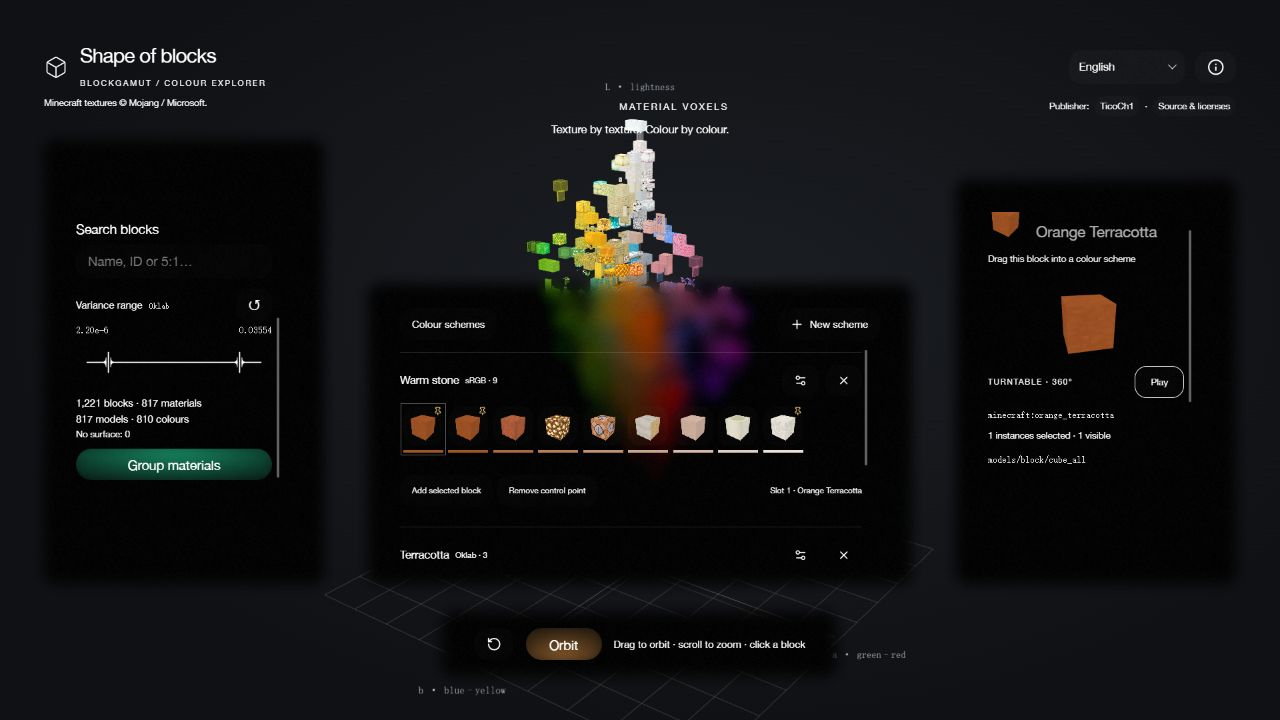
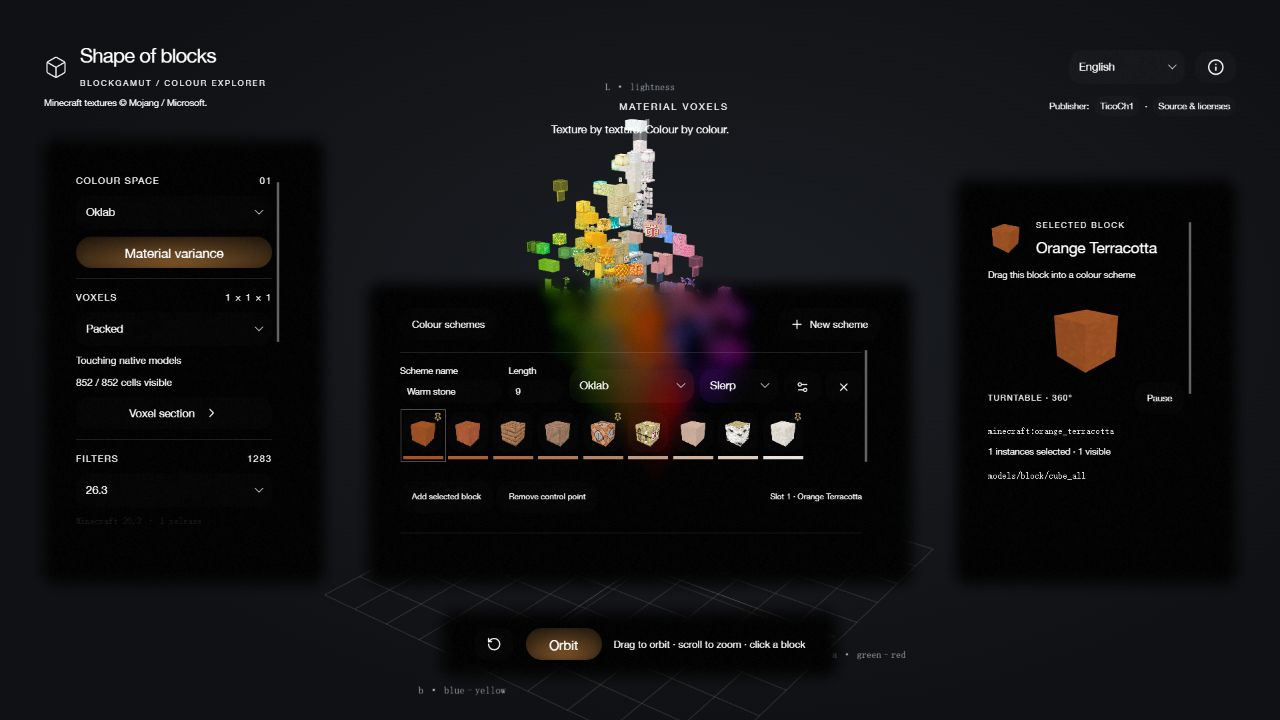
Add Slerp and inline colour scheme controls

diff --git a/src/ColourSchemes.tsx b/src/ColourSchemes.tsx
@@ -12,7 +12,7 @@ import type {Block,Space} from './types';
 import type {ModelResources} from './useModels';
 
 interface SchemeFilters {categories:string[];query:string;opaque:boolean;tinted:boolean;list:string;varianceMin:number;varianceMax:number}
-interface Scheme {id:string;name:string;length:number;anchors:Record<number,string>;space:Space;filters:SchemeFilters;ranges:Partial<Record<Space,[number,number]>>}
+interface Scheme {id:string;name:string;length:number;anchors:Record<number,string>;space:Space;interpolation?:'lerp'|'slerp';filters:SchemeFilters;ranges:Partial<Record<Space,[number,number]>>}
 
 
 function SchemeRow({scheme,blocks,resources,collection,blacklist,selected,onChange,onDelete,onSettings,onPick}:{scheme:Scheme;blocks:Block[];resources:ModelResources|null;collection:string[];blacklist:string[];selected:Block|undefined;onChange:(s:Scheme)=>void;onDelete:()=>void;onSettings:()=>void;onPick:(id:string)=>void}){
@@ -22,7 +22,13 @@ function SchemeRow({scheme,blocks,resources,collection,blacklist,selected,onChan
  const anchor=(index:number,id:string)=>onChange({...scheme,anchors:{...scheme.anchors,[index]:id}});
  const addSelected=()=>{if(selected)anchor(slot,selected.id);};
  return view(<div className="scheme-row">
-  <div className="scheme-row-heading"><span>{scheme.name}</span><small>{spaces.find(s=>s.value===scheme.space)!.label} · {scheme.length}</small><GlassButton aria-label="Scheme settings" onClick={onSettings}><Settings2 size={13}/></GlassButton><GlassButton aria-label="Delete scheme" onClick={onDelete}><X size={13}/></GlassButton></div>
+  <div className="scheme-row-heading">
+   <GlassInput className="scheme-name" label="Scheme name" value={scheme.name} onChange={e=>onChange({...scheme,name:e.target.value})}/>
+   <GlassInput className="scheme-length" key={scheme.id+':'+scheme.length} label="Length" type="number" min={3} step={1} defaultValue={scheme.length} onKeyDown={e=>{if(e.key==='Enter')e.currentTarget.blur();}} onBlur={e=>{const length=schemeLength(e.target.value);e.target.value=String(length);onChange({...scheme,length,anchors:resizeAnchors(scheme.anchors,scheme.length,length)});}}/>
+   <div className="scheme-space"><GlassSelect label="Scheme colour space" value={scheme.space} options={spaces.map(({value,label})=>({value,label}))} onChange={value=>{const range=scheme.ranges[value as Space]||[0,Infinity];onChange({...scheme,space:value as Space,filters:{...scheme.filters,varianceMin:range[0],varianceMax:range[1]}});}}/></div>
+   <div className="scheme-method"><GlassSelect label="Interpolation" value={scheme.interpolation||'lerp'} options={[{value:'lerp',label:'Lerp'},{value:'slerp',label:'Slerp'}]} onChange={value=>onChange({...scheme,interpolation:value as 'lerp'|'slerp'})}/></div>
+   <div className="scheme-row-buttons"><GlassButton aria-label="Scheme filters" onClick={onSettings}><Settings2 size={13}/></GlassButton><GlassButton aria-label="Delete scheme" onClick={onDelete}><X size={13}/></GlassButton></div>
+  </div>
   <GlassScrollArea label="Scheme blocks" height={78} viewportClassName="scheme-cells-viewport"><div className="scheme-cells">
    {cells.map(cell=><div key={cell.index} className="scheme-cell" data-scheme-id={scheme.id} data-scheme-slot={cell.index} data-anchor={cell.anchor} data-selected={slot===cell.index} data-drop={hover===cell.index} onDragOver={e=>{if(e.dataTransfer.types.includes(schemeMime)||e.dataTransfer.types.includes('text/plain')){e.preventDefault();e.dataTransfer.dropEffect='copy';setHover(cell.index);}}} onDragLeave={()=>setHover(null)} onDrop={e=>{e.preventDefault();setHover(null);const id=e.dataTransfer.getData(schemeMime)||e.dataTransfer.getData('text/plain');if(blocks.some(b=>b.id===id))anchor(cell.index,id);}}>
     <GlassButton aria-label={`${t('Scheme slot')} ${cell.index+1}: ${cell.id||cell.block?.id||'minecraft:air'}`} title={cell.block?`${cell.block.name} · ${cell.block.id}\n${cell.anchor?t('Control point'):t('Interpolated material')}`:cell.id?`${cell.id} · ${t('Unavailable in this release')}`:t('Drop a block here')} onClick={()=>{setSlot(cell.index);if(cell.block)onPick(cell.block.id);}}>{cell.block?<BlockThumbnail id={cell.block.id} resources={resources}/>:<span aria-hidden="true">+</span>}{cell.anchor&&<Pin className="scheme-pin" size={9}/>}</GlassButton>
@@ -41,7 +47,7 @@ export function ColourSchemes({blocks,resources,selected,space,categories,collec
  useEffect(()=>{const drop=(event:Event)=>{const {scheme,slot,block}=(event as CustomEvent).detail;setSchemes(list=>list.map(s=>s.id===scheme?{...s,anchors:{...s.anchors,[slot]:block}}:s));};document.addEventListener('block-gamut-scheme-drop',drop);return()=>document.removeEventListener('block-gamut-scheme-drop',drop);},[]);
  const change=(scheme:Scheme)=>setSchemes(list=>list.map(s=>s.id===scheme.id?scheme:s));
  const current=schemes.find(s=>s.id===settings);
- const add=()=>{setExpanded(true);if(window.matchMedia('(max-width:760px)').matches)setMobileOpen(true);setSchemes(list=>[...list,{id:crypto.randomUUID(),name:`${t('Scheme')} ${list.length+1}`,length:7,anchors:{},space,filters:{categories:[...categories],query:'',opaque:false,tinted:true,list:'all',varianceMin:0,varianceMax:Infinity},ranges:{}}]);};
+ const add=()=>{setExpanded(true);if(window.matchMedia('(max-width:760px)').matches)setMobileOpen(true);setSchemes(list=>[...list,{id:crypto.randomUUID(),name:`${t('Scheme')} ${list.length+1}`,length:7,anchors:{},space,interpolation:'lerp',filters:{categories:[...categories],query:'',opaque:false,tinted:true,list:'all',varianceMin:0,varianceMax:Infinity},ranges:{}}]);};
  const maximum=current?Math.max(...blocks.map(b=>materialVariance(b,current.space)||0)):0;
  const filter=(patch:Partial<SchemeFilters>)=>current&&change({...current,filters:{...current.filters,...patch}});
  return view(<>
@@ -51,11 +57,8 @@ export function ColourSchemes({blocks,resources,selected,space,categories,collec
    {expanded&&schemes.length>0&&<GlassScrollArea className="scheme-desktop-rows" label="Colour schemes" maxHeight="var(--schemes-height)"><div className="scheme-rows">{schemes.map(s=><SchemeRow key={s.id} scheme={s} blocks={blocks} resources={resources} collection={collection} blacklist={blacklist} selected={selected} onChange={change} onDelete={()=>setSchemes(v=>v.filter(x=>x.id!==s.id))} onSettings={()=>setSettings(s.id)} onPick={onPick}/>)}</div><p className="scheme-hint">Drag the selected block into a slot. Pinned slots are control points.</p></GlassScrollArea>}
   </GlassPanel>
   <GlassDialog title="Colour schemes" open={mobileOpen} onOpenChange={setMobileOpen} closeLabel="Close colour schemes"><GlassScrollArea label="Colour schemes" maxHeight="55dvh"><div className="scheme-rows">{schemes.map(s=><SchemeRow key={s.id} scheme={s} blocks={blocks} resources={resources} collection={collection} blacklist={blacklist} selected={selected} onChange={change} onDelete={()=>setSchemes(v=>v.filter(x=>x.id!==s.id))} onSettings={()=>{setMobileOpen(false);setSettings(s.id);}} onPick={onPick}/>)}</div><GlassButton onClick={add}>New scheme</GlassButton></GlassScrollArea></GlassDialog>
-  <GlassDialog title="Scheme settings" open={!!current} onOpenChange={open=>{if(!open){setSettings(null);if(window.matchMedia('(max-width:760px)').matches)setMobileOpen(true);}}} closeLabel="Close scheme settings" className="scheme-settings">
-   {current&&<GlassScrollArea label="Scheme settings" maxHeight="55dvh"><div className="scheme-settings-content">
-    <GlassInput label="Scheme name" value={current.name} onChange={e=>change({...current,name:e.target.value})}/>
-    <GlassInput key={current.id+':'+current.length} label="Length" type="number" min={3} step={1} defaultValue={current.length} hint="Integer · at least 3 blocks" onKeyDown={e=>{if(e.key==='Enter')e.currentTarget.blur();}} onBlur={e=>{const length=schemeLength(e.target.value);e.target.value=String(length);change({...current,length,anchors:resizeAnchors(current.anchors,current.length,length)});}}/>
-    <GlassSelect label="Scheme colour space" value={current.space} options={spaces.map(({value,label})=>({value,label}))} onChange={value=>{const range=current.ranges[value as Space]||[0,Infinity];change({...current,space:value as Space,filters:{...current.filters,varianceMin:range[0],varianceMax:range[1]}});}}/>
+  <GlassDialog title="Scheme filters" open={!!current} onOpenChange={open=>{if(!open){setSettings(null);if(window.matchMedia('(max-width:760px)').matches)setMobileOpen(true);}}} closeLabel="Close scheme filters" className="scheme-settings">
+   {current&&<GlassScrollArea label="Scheme filters" maxHeight="55dvh"><div className="scheme-settings-content">
     <GlassInput label="Search blocks" type="search" value={current.filters.query} onChange={e=>filter({query:e.target.value})}/>
     <GeometryFilter value={current.filters.categories} onChange={categories=>filter({categories})}/>
     <GlassSelect label="Block list" value={current.filters.list} options={[{value:'all',label:'All blocks'},{value:'collection',label:'My collection'},{value:'blacklist',label:'My blacklist'}]} onChange={list=>filter({list})}/>

diff --git a/src/style.css b/src/style.css
@@ -58,7 +58,7 @@ html,body,#atlas,[data-form-glass-root]{height:100%;width:100%;margin:0}body{ove
 .geometry-choices{display:flex;flex-direction:column;align-items:stretch;gap:7px}.geometry-actions{display:flex;gap:6px}.geometry-actions button{font-size:9px}.geometry-choices>button{justify-content:space-between;font-size:10px}.geometry-choices .micro{font-size:9px}
 .draggable-block{cursor:grab}.draggable-block:active{cursor:grabbing}.drag-block-hint{font-size:9px!important}
 .colour-schemes{--schemes-height:min(220px,calc(100dvh - 390px));position:absolute!important;bottom:136px;left:50%;transform:translateX(-50%);width:min(640px,calc(100dvw - 736px));min-width:280px;box-sizing:border-box;padding:24px 32px!important}
-.scheme-manager-heading{display:flex;justify-content:space-between;align-items:center;gap:8px}.scheme-manager-heading button{font-size:10px;gap:6px}.scheme-rows{padding:4px 18px 4px 0}.scheme-row{padding:12px 0;border-top:1px solid var(--line);margin-top:8px}.scheme-row-heading{display:flex;align-items:center;gap:6px;font-size:11px}.scheme-row-heading>span{overflow:hidden;text-overflow:ellipsis;white-space:nowrap;max-width:45%}.scheme-row-heading small{font-size:8px;color:var(--muted);margin-right:auto}.scheme-row-heading button{padding:6px;min-height:25px}
+.scheme-manager-heading{display:flex;justify-content:space-between;align-items:center;gap:8px}.scheme-manager-heading button{font-size:10px;gap:6px}.scheme-rows{padding:4px 18px 4px 0}.scheme-row{padding:12px 0;border-top:1px solid var(--line);margin-top:8px}.scheme-row-heading{display:flex;align-items:center;gap:6px;font-size:11px}.scheme-row-heading button{padding:6px;min-height:25px}
 .scheme-cells{display:flex;gap:5px;width:max-content;padding:9px 3px}.scheme-cell{width:40px;position:relative}.scheme-cell>button{width:40px;height:40px;padding:4px;position:relative}.scheme-cell canvas{width:32px;height:32px;display:block;image-rendering:pixelated}.scheme-cell[data-selected=true]{outline:1px solid #ffffff60;outline-offset:2px}.scheme-cell[data-drop=true]{outline:1px solid #e8c67a;outline-offset:2px}.scheme-pin{position:absolute;right:1px;top:1px;color:#e8c67a}.scheme-target{height:3px;margin-top:4px;display:block}.scheme-row-actions{display:flex;align-items:center;gap:4px;flex-wrap:wrap}.scheme-row-actions button{font-size:8px;padding:5px 7px;min-height:25px}.scheme-row-actions>span{font-size:8px;color:var(--muted);margin-left:auto}.scheme-hint{font-size:9px;line-height:1.6;color:var(--muted);padding-right:18px;margin:5px 0}.scheme-settings-content{display:flex;flex-direction:column;gap:10px;padding-right:20px}.scheme-settings-content .glass-select{width:100%}
 @media(max-width:1100px) and (min-width:761px){.colour-schemes{width:calc(100dvw - 648px);min-width:220px;padding:24px!important}.scheme-manager-heading{flex-wrap:wrap}.scheme-manager-heading button{font-size:9px}.scheme-manager-heading span{display:none}}
 @media(max-width:760px){.colour-schemes{bottom:var(--gutter);width:calc(100dvw - 2 * var(--gutter));min-width:0;padding:16px 24px!important;--schemes-height:min(210px,calc(100dvh - 330px))}.view-dock{display:none}.scheme-manager-heading button{font-size:9px}.scheme-rows{padding-right:20px}.scheme-cell{width:36px}.scheme-cell>button{width:36px;height:36px}.scheme-cell canvas{width:28px;height:28px}}
@@ -72,3 +72,5 @@ html,body,#atlas,[data-form-glass-root]{height:100%;width:100%;margin:0}body{ove
 
 .glass-scroll-viewport.scheme-cells-viewport{scrollbar-width:thin;scrollbar-color:#858a94 #ffffff08}.scheme-cells-viewport::-webkit-scrollbar{display:block;height:5px}.scheme-cells-viewport::-webkit-scrollbar-track{background:#ffffff08}.scheme-cells-viewport::-webkit-scrollbar-thumb{background:#858a94;border-radius:3px}.scheme-cells-viewport::-webkit-scrollbar-thumb:hover{background:#bdc2cb}
 .block-drag-preview{position:fixed;left:0;top:0;z-index:2147483647;pointer-events:none;display:flex;align-items:center;gap:8px;max-width:200px;color:#fff;font:12px/1.4 Arial,sans-serif;will-change:transform;text-shadow:0 1px 3px #000}.block-drag-preview canvas{width:64px;height:64px;flex-shrink:0;image-rendering:pixelated}.scheme-cell[data-pointer-drop=true]{outline:2px solid #e8c67a;outline-offset:3px}.scheme-row-actions>span{max-width:100%;overflow-wrap:anywhere}
+
+.scheme-row-heading{flex-wrap:wrap;align-items:flex-end}.scheme-row-heading .form-glass-input{font-size:9px;gap:3px}.scheme-row-heading .form-glass-input .glass-field{padding:5px 7px}.scheme-row-heading .scheme-name{flex:1 1 90px;min-width:80px;max-width:110px}.scheme-row-heading .scheme-length{width:55px;flex-shrink:0}.scheme-space{flex:1 1 112px;min-width:104px}.scheme-method{width:78px}.scheme-row-heading .glass-select{width:100%;font-size:10px}.scheme-row-buttons{display:flex;gap:4px;margin-left:auto;align-self:flex-end}.scheme-row-buttons button{min-width:25px}

diff --git a/README.md b/README.md
@@ -102,13 +102,13 @@ Two instances of the original FORM `<|>` slider thumb share one logarithmic trac
 
 ## Manage colour schemes
 
-Use **New scheme** on the lower centre bar. Each horizontal row is one scheme, with its own name, integer length (at least **3**), colour space and filters. New schemes inherit the current geometry selection and colour space, then remain independent of the explorer controls. The selected Minecraft release supplies every scheme's materials.
+Use **New scheme** on the lower centre bar. Each horizontal row is one scheme, with its own name, integer length (at least **3**), colour space, interpolation and filters. Edit the name, length, colour space and **Lerp / Slerp** directly on the row. The settings icon opens only block filters and variance filters. New schemes inherit the current geometry selection and colour space, then remain independent of the explorer controls. The selected Minecraft release supplies every scheme's materials.
 
 Drag the selected block's **title or model thumbnail in the right inspector** into a slot to make a pinned control point. A copy of the block and its name follows the pointer, and the destination slot highlights; Escape cancels the drag. Drop more blocks at any positions to create several interpolation segments. Alternatively, select a slot and use **Add selected block**; **Remove control point** unpins that slot. Clicking a filled slot displays its actual block in the inspector, including blocks outside the explorer's filters. The row also shows the selected slot's block name.
 
-Unpinned slots linearly interpolate between neighbouring control points in the scheme's colour space, then match the nearest eligible material in that space. HSV/HSL use the shortest hue arc; HSL bicone interpolates chroma. Outside the outermost control points the endpoint colour is held. The thin swatch below each cell shows the target colour; the thumbnail shows a three-dimensional preview of the matched Minecraft block. Technical blocks such as `minecraft:test_block` retain their original appearance and are identified by name and ID. With no eligible material, an interpolated slot stays empty. Control points retain their exact block IDs even when excluded by that scheme's filters or unavailable in another release.
+Unpinned slots interpolate between neighbouring control points in the scheme's colour space, then match the nearest eligible material in that space. **Lerp** is the default: it blends channel values linearly, using the shortest hue arc in HSV/HSL and chroma in HSL bicone. **Slerp** follows the shortest spherical arc in the atlas's fixed coordinate metric, around that space's black origin, while blending distance from black linearly. Hue spaces use their cylinder or bicone geometry. Output colours are clipped to valid channel/RGB bounds. Exact control points remain unchanged in either mode. Outside the outermost control points the endpoint colour is held. The thin swatch below each cell shows the target colour; the thumbnail shows a three-dimensional preview of the matched Minecraft block. Technical blocks such as `minecraft:test_block` retain their original appearance and are identified by name and ID. With no eligible material, an interpolated slot stays empty. Control points retain their exact block IDs even when excluded by that scheme's filters or unavailable in another release.
 
-**Scheme settings** changes the name, length, colour space, geometry categories, search, collection/blacklist choice, variance range, opacity and biome tint inclusion. Variance bounds are remembered separately for each scheme's colour spaces. Resizing distributes control points proportionally across the new integer slots; if several land on one slot, the later point is retained. Rename, remove, collapse or add schemes as needed. Schemes are saved in this browser and survive reloads; collection and blacklist entries remain session-based.
+**Scheme filters** contains geometry categories, search, collection/blacklist choice, variance range, opacity and biome tint inclusion. Variance bounds are remembered separately for each scheme's colour spaces. Resizing distributes control points proportionally across the new integer slots; if several land on one slot, the later point is retained. Rename, remove, collapse or add schemes as needed. Schemes are saved in this browser and survive reloads; collection and blacklist entries remain session-based.
 
 On narrow screens, the lower bar opens the scheme manager in a scrollable glass dialog, keeping the inspector accessible when the dialog is closed. The slot/add button provides the same control-point editing without dragging.
 
@@ -116,7 +116,7 @@ On narrow screens, the lower bar opens the scheme manager in a scrollable glass 
 
 ![The dragged block preview follows the pointer](media/screenshots/42-block-drag-preview.jpg)
 
-![Scheme-specific colour space and filters](media/screenshots/39-scheme-settings.jpg)
+![Scheme-specific block and variance filters](media/screenshots/39-scheme-settings.jpg)
 
 ## Inspect native models and build a collection
 
